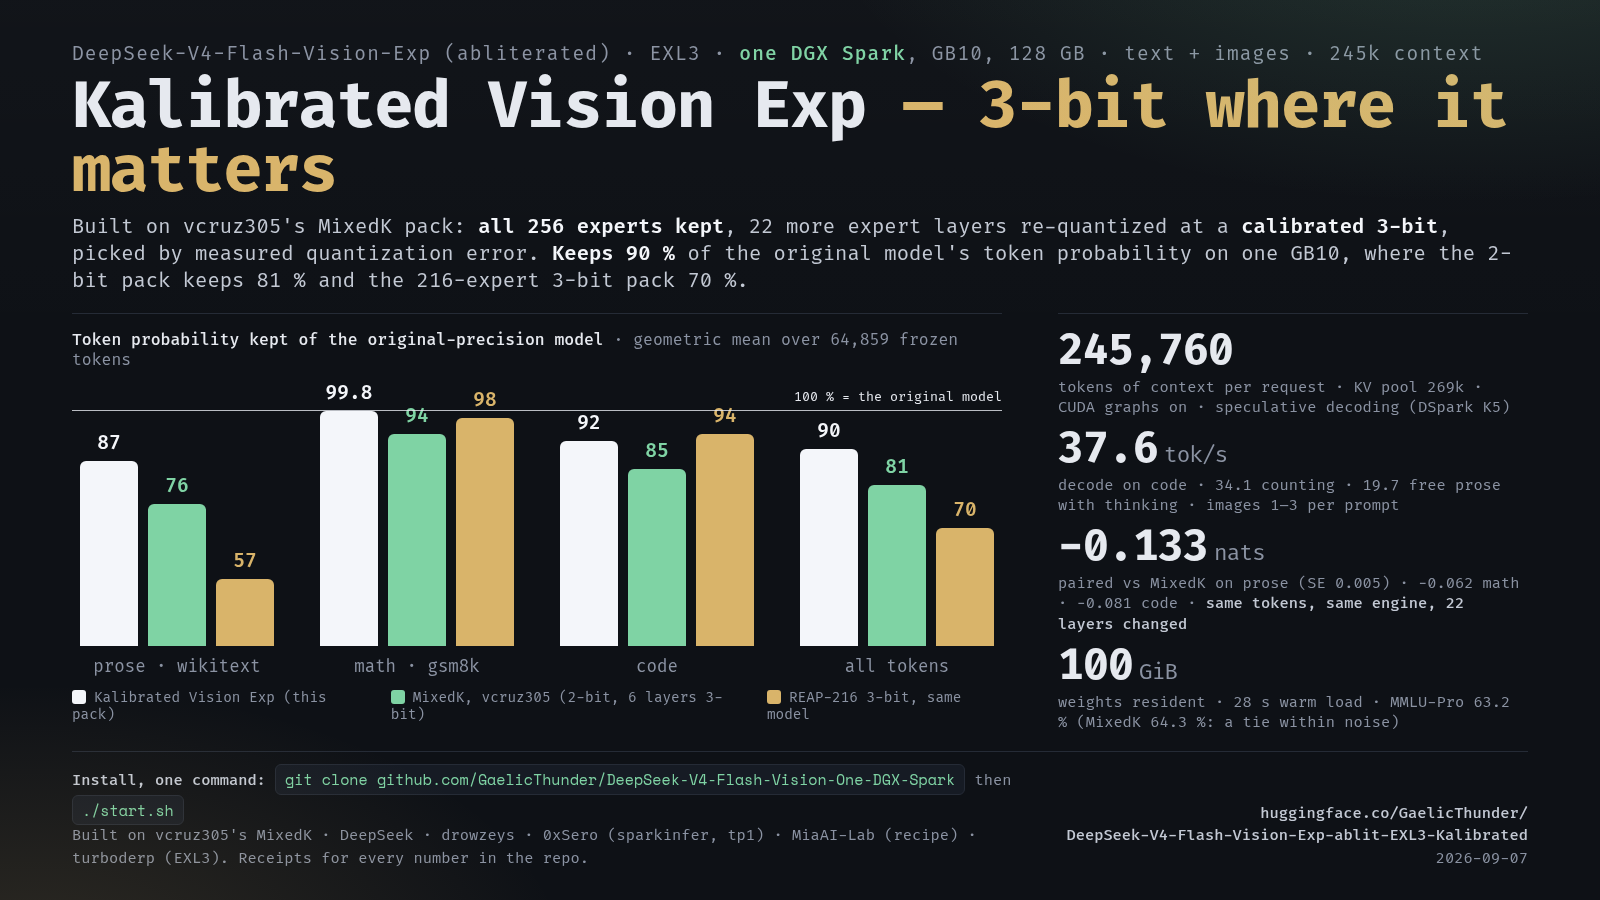
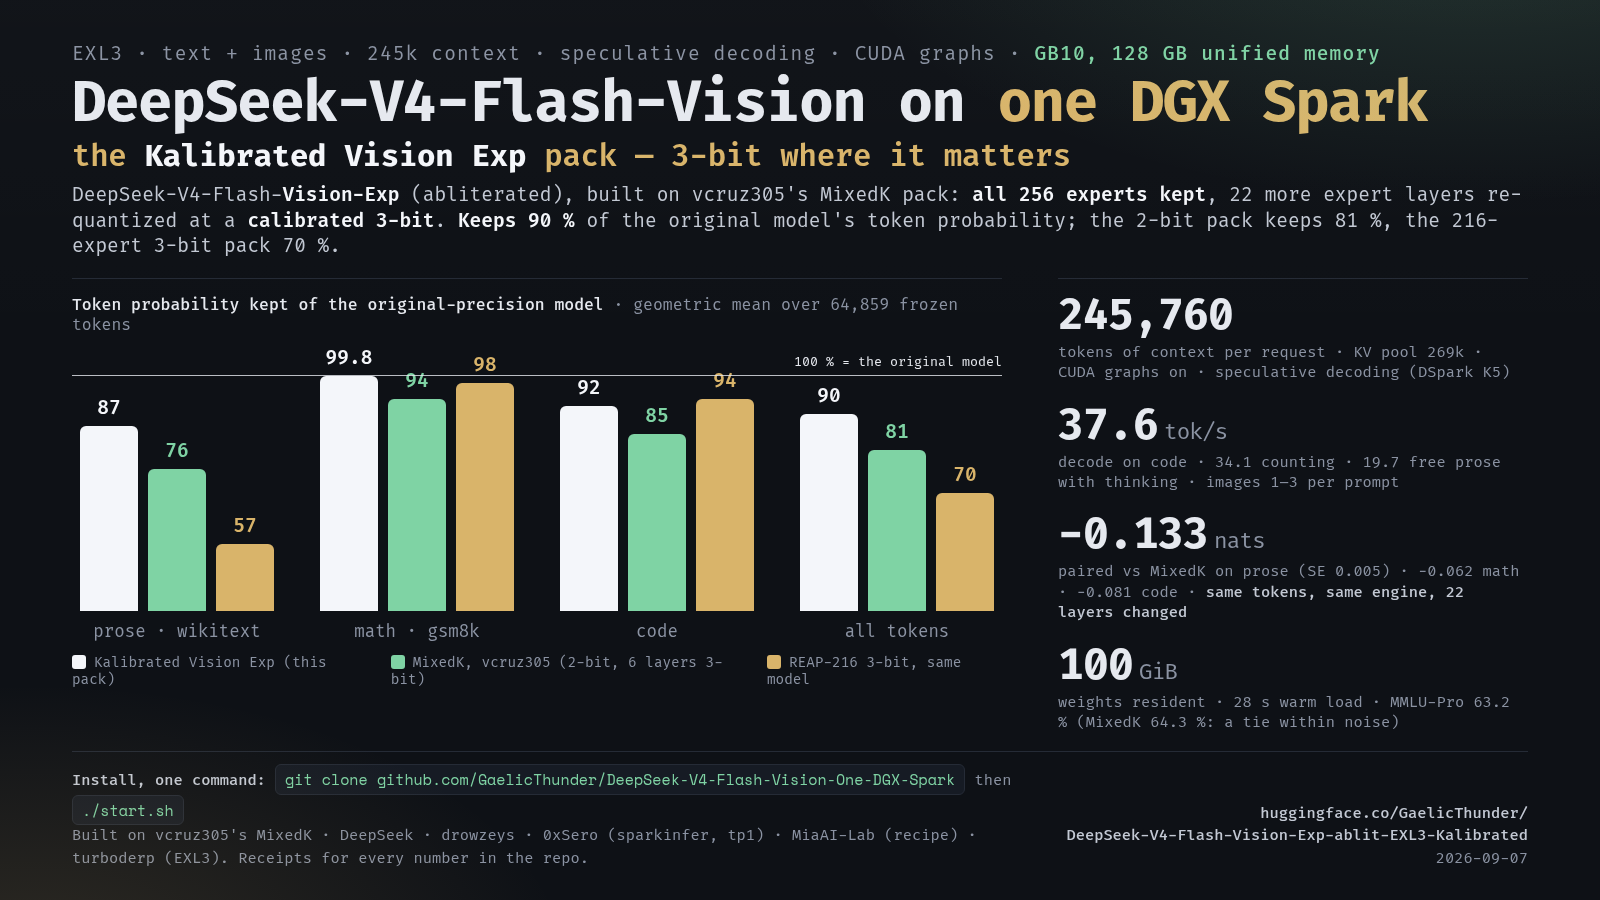
Kalibrated Vision Exp is on the Hub (public, not gated): ./start.sh downloads it; cards say DeepSeek-V4-Flash-Vision on one DGX Spark first, the pack name second

diff --git a/assets/kalibrated/banner.html b/assets/kalibrated/banner.html
@@ -11,10 +11,12 @@
      radial-gradient(700px 380px at 5% 110%, rgba(217,180,106,.14), transparent 60%); pointer-events:none; }
   .kicker { font-size:15px; color:var(--dim); letter-spacing:.06em; }
   .kicker b { color:var(--acc); font-weight:500; }
-  h1 { margin:10px 0 6px; font-size:40px; font-weight:600; letter-spacing:-.015em; line-height:1.05; }
+  h1 { margin:8px 0 4px; font-size:38px; font-weight:600; letter-spacing:-.015em; line-height:1.05; }
   h1 em { font-style:normal; color:var(--acc2); }
-  .sub { font-size:16.5px; color:#b8bfcc; margin:0 0 18px; line-height:1.4; max-width:1060px; }
-  .stats { display:grid; grid-template-columns:repeat(4,1fr); gap:0 26px; border-top:1px solid var(--line); border-bottom:1px solid var(--line); padding:20px 0 18px; }
+  .h2 { font-size:21px; color:var(--acc2); font-weight:600; margin:0 0 10px; }
+  .h2 b { color:var(--fg); font-weight:700; }
+  .sub { font-size:15.5px; color:#b8bfcc; margin:0 0 14px; line-height:1.4; max-width:1060px; }
+  .stats { display:grid; grid-template-columns:repeat(4,1fr); gap:0 26px; border-top:1px solid var(--line); border-bottom:1px solid var(--line); padding:14px 0 12px; }
   .stat .n { font-size:40px; font-weight:600; letter-spacing:-.02em; line-height:1; }
   .stat .n em { font-style:normal; font-size:20px; color:var(--dim); font-weight:400; margin-left:4px; }
   .stat .l { font-size:13.5px; color:var(--dim); margin-top:8px; line-height:1.35; }
@@ -25,8 +27,9 @@
   .foot { margin-top:auto; padding-top:12px; border-top:1px solid var(--line); display:flex; justify-content:space-between; align-items:flex-end; font-size:12px; color:var(--dim); line-height:1.45; }
   .foot b { color:#b8bfcc; font-weight:500; }
 </style>
-<div class="kicker">DeepSeek-V4-Flash-Vision-Exp · EXL3 · <b>one DGX Spark</b> (GB10, 128 GB unified) · text + images · 245k context</div>
-<h1>Kalibrated Vision Exp — <em>3-bit where it matters</em></h1>
+<div class="kicker">EXL3 · text + images · 245k context · speculative decoding · CUDA graphs · <b>GB10, 128 GB unified memory</b></div>
+<h1>DeepSeek-V4-Flash-Vision on <em>one DGX Spark</em></h1>
+<div class="h2">the <b>Kalibrated Vision Exp</b> pack — 3-bit where it matters</div>
 <p class="sub">DeepSeek-V4-Flash-<b>Vision-Exp</b> (abliterated), built on vcruz305's MixedK pack: all 256 experts kept, 28 of 43 expert layers at calibrated 3-bit instead of 6, picked by
 measured quantization error. Keeps <b>90 %</b> of the original model's token probability; the 2-bit MixedK it extends keeps 81 %.</p>
 <div class="stats">

diff --git a/assets/kalibrated/x-promo.html b/assets/kalibrated/x-promo.html
@@ -12,9 +12,11 @@
      linear-gradient(180deg, rgba(255,255,255,.015), transparent 40%); }
   .kicker { font-size:19px; color:var(--dim); letter-spacing:.06em; }
   .kicker b { color:var(--acc); font-weight:500; }
-  h1 { margin:10px 0 2px; font-size:64px; font-weight:700; letter-spacing:-.025em; line-height:1; }
+  h1 { margin:10px 0 6px; font-size:56px; font-weight:700; letter-spacing:-.025em; line-height:1; }
+  .h2 { font-size:30px; color:var(--acc2); font-weight:600; letter-spacing:-.01em; }
+  .h2 b { color:var(--white); font-weight:700; }
   h1 span { color:var(--acc2); }
-  .sub { font-size:20px; color:#c3c9d4; margin:8px 0 0; line-height:1.35; }
+  .sub { font-size:19px; color:#c3c9d4; margin:8px 0 0; line-height:1.35; }
   .sub b { color:var(--white); font-weight:600; }
   .main { display:grid; grid-template-columns: 1fr 470px; gap:56px; margin-top:18px; flex:1; }
   .chart { position:relative; border-top:1px solid var(--line); padding-top:16px; }
@@ -43,10 +45,11 @@
   .foot b { color:#c3c9d4; font-weight:500; }
   code { display:inline-block; white-space:nowrap; background:#161b24; border:1px solid var(--line); border-radius:6px; padding:3px 9px; color:var(--acc); font-size:15px; }
 </style>
-<div class="kicker">DeepSeek-V4-Flash-Vision-Exp (abliterated) · EXL3 · <b>one DGX Spark</b>, GB10, 128 GB · text + images · 245k context</div>
-<h1>Kalibrated Vision Exp <span>— 3-bit where it matters</span></h1>
-<p class="sub">Built on vcruz305's MixedK pack: <b>all 256 experts kept</b>, 22 more expert layers re-quantized at a <b>calibrated 3-bit</b>, picked by measured
-quantization error. <b>Keeps 90 %</b> of the original model's token probability on one GB10, where the 2-bit pack keeps 81 % and the 216-expert 3-bit pack 70 %.</p>
+<div class="kicker">EXL3 · text + images · 245k context · speculative decoding · CUDA graphs · <b>GB10, 128 GB unified memory</b></div>
+<h1>DeepSeek-V4-Flash-Vision on <span>one DGX Spark</span></h1>
+<div class="h2">the <b>Kalibrated Vision Exp</b> pack — 3-bit where it matters</div>
+<p class="sub">DeepSeek-V4-Flash-<b>Vision-Exp</b> (abliterated), built on vcruz305's MixedK pack: <b>all 256 experts kept</b>, 22 more expert layers re-quantized at a
+<b>calibrated 3-bit</b>. <b>Keeps 90 %</b> of the original model's token probability; the 2-bit pack keeps 81 %, the 216-expert 3-bit pack 70 %.</p>
 <div class="main">
   <div class="chart">
     <div class="t"><b>Token probability kept of the original-precision model</b> · geometric mean over 64,859 frozen tokens</div>

diff --git a/assets/kalibrated/header-x.html b/assets/kalibrated/header-x.html
@@ -11,9 +11,11 @@
      radial-gradient(700px 380px at 5% 110%, rgba(217,180,106,.14), transparent 60%); pointer-events:none; }
   .kicker { font-size:15px; color:var(--dim); letter-spacing:.06em; }
   .kicker b { color:var(--acc); font-weight:500; }
-  h1 { margin:8px 0 4px; font-size:38px; font-weight:600; letter-spacing:-.015em; line-height:1.05; }
+  h1 { margin:6px 0 2px; font-size:34px; font-weight:600; letter-spacing:-.015em; line-height:1.05; }
   h1 em { font-style:normal; color:var(--acc2); }
-  .sub { font-size:17px; color:#b8bfcc; margin:0 0 14px; line-height:1.35; max-width:1360px; }
+  .h2 { font-size:19px; color:var(--acc2); font-weight:600; margin:0 0 6px; }
+  .h2 b { color:var(--fg); font-weight:700; }
+  .sub { font-size:16px; color:#b8bfcc; margin:0 0 10px; line-height:1.3; max-width:1360px; }
   .stats { display:grid; grid-template-columns:repeat(4,1fr); gap:0 26px; border-top:1px solid var(--line); border-bottom:1px solid var(--line); padding:12px 0 10px; }
   .stat .n { font-size:36px; font-weight:600; letter-spacing:-.02em; line-height:1; }
   .stat .n em { font-style:normal; font-size:20px; color:var(--dim); font-weight:400; margin-left:4px; }
@@ -25,8 +27,9 @@
   .foot { margin-top:auto; padding-top:9px; border-top:1px solid var(--line); display:flex; justify-content:space-between; align-items:flex-end; font-size:12px; color:var(--dim); line-height:1.45; }
   .foot b { color:#b8bfcc; font-weight:500; }
 </style>
-<div class="kicker">DeepSeek-V4-Flash-Vision-Exp · EXL3 · <b>one DGX Spark</b> (GB10, 128 GB unified) · text + images · 245k context</div>
-<h1>Kalibrated Vision Exp — <em>3-bit where it matters</em></h1>
+<div class="kicker">EXL3 · text + images · 245k context · speculative decoding · CUDA graphs · <b>GB10, 128 GB unified memory</b></div>
+<h1>DeepSeek-V4-Flash-Vision on <em>one DGX Spark</em></h1>
+<div class="h2">the <b>Kalibrated Vision Exp</b> pack — 3-bit where it matters</div>
 <p class="sub">DeepSeek-V4-Flash-<b>Vision-Exp</b> (abliterated), built on vcruz305's MixedK pack: all 256 experts kept, 28 of 43 expert layers at calibrated 3-bit instead of 6, picked by
 measured quantization error. Keeps <b>90 %</b> of the original model's token probability; the 2-bit MixedK it extends keeps 81 %.</p>
 <div class="stats">

diff --git a/README.md b/README.md
@@ -41,7 +41,7 @@ quantization error. Everything else — the other 15 expert layers, attention, i
 vision tower, the DSpark draft plan — is the MixedK pack's own files, unchanged. Same format, same layout, same engine:
 the K in the name is MixedK's, the "calibrated" is what this repository adds. Ready to serve as a download:
 [`GaelicThunder/DeepSeek-V4-Flash-Vision-Exp-ablit-EXL3-Kalibrated`](https://huggingface.co/GaelicThunder/DeepSeek-V4-Flash-Vision-Exp-ablit-EXL3-Kalibrated)
-(106 GB: the `tp1/` and `dspark-draft-k64/` directories `scripts/serve.sh` mounts).
+(106 GB: the `tp1/` and `dspark-draft-k64/` directories `scripts/serve.sh` mounts; public, not gated, published 2026-09-07).
 
 **How much of the original model each pack keeps.** The number is the geometric mean, over 64,859 frozen tokens
 (wikitext · gsm8k · code), of the probability the pack gives the true next token divided by the probability the

diff --git a/TODO.md b/TODO.md
@@ -1,9 +1,5 @@
 # TODO
 
-- **Kalibrated pack on the Hub** — upload of the ready-to-serve directory (tp1/ + dspark-draft-k64/, 106 GB) to
-  `GaelicThunder/DeepSeek-V4-Flash-Vision-Exp-ablit-EXL3-Kalibrated` in progress on 2026-09-07; `./start.sh` already
-  points at it. Until it is public, `PACK=mixedk ./start.sh` is the working route and `scripts/kalibrated/` rebuilds
-  the pack from the source (2×H200, ~4 h; ~20 h on the Spark).
 - **23–24 promoted layers at a shorter served context.** Each layer costs 0.75 GiB of KV pool; at 245k the pack stops
   at 22. The layer *choice* is settled by measurement (`docs/KALIBRATED.md` §5: head / middle / tail swaps against the
   four spares; the ranking holds, nothing to gain from shuffling the tail).
